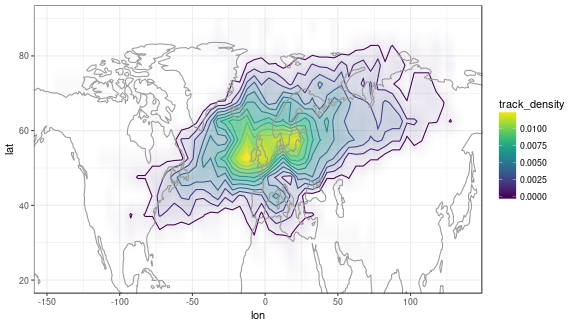
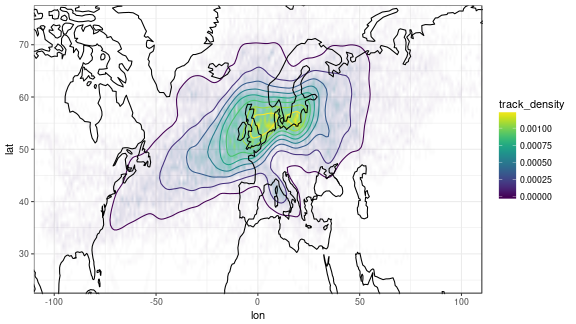
updated readme

diff --git a/README.md b/README.md
@@ -32,11 +32,11 @@ writeLines(readLines(stormsfile, n=8))
 ## 0
 ## PER_INFO 1    186.00000
 ## 0 0
-## TRACK_NUM      164 ADD_FLD    4  12 &1111
-## TRACK_ID  62 START_TIME 1979100115
+## TRACK_NUM      1184 ADD_FLD    6  16 &111110
+## TRACK_ID  127 START_TIME 1979100312
 ## POINT_NUM  30
-## 1979100115 340.307587 49.238014 2.256818e+00 & 1.000000e+25 & 1.000000e+25 & 1.004745e+03 & 3.452344e+02 & 5.157880e+01 & 2.585588e+01 & 3.431250e+02 & 5.157881e+01 & 2.522785e+00 & 3.445312e+02 & 5.298231e+01 & -9.085817e-01 & 
-## 1979100118 341.067871 48.938240 2.178028e+00 & 1.000000e+25 & 1.000000e+25 & 1.006301e+03 & 3.466406e+02 & 5.228060e+01 & 2.429727e+01 & 3.445312e+02 & 5.298231e+01 & 1.639683e+00 & 3.452344e+02 & 5.298231e+01 & -6.051655e-01 &
+## 1979100312 353.681549 47.666767 2.346363e+00 & 3.533451e+02 & 4.970964e+01 & 1.007385e+03 & 7.031000e-01 & 4.526300e+01 & 1.215763e+01 & 3.550781e+02 & 4.666655e+01 & 1.042684e+00 & 3.529688e+02 & 5.087706e+01 & -7.438669e-01 & 7.031000e-01 & 4.526300e+01 & 1.215763e+01 & 1.157416e-01 & 
+## 1979100315 354.703278 48.574390 2.604560e+00 & 3.537430e+02 & 5.029348e+01 & 1.006312e+03 & 1.406200e+00 & 4.526300e+01 & 1.209936e+01 & 3.557812e+02 & 4.807005e+01 & 1.145681e+00 & 3.529688e+02 & 5.087706e+01 & -9.429607e-01 & 1.406200e+00 & 4.526300e+01 & 1.209936e+01 & 1.584442e-01 &
 ```
 
 The function `read_tracks` parses TRACK output into a `data.table`. Variable names can be passed as a function argument:
@@ -48,27 +48,34 @@ head(trx)
 ```
 
 ```
-##               ID       date lon_vor850 lat_vor850 var_vor850 lon_mslp
-## 1: 1979100115_62 1979100115  -19.69241   49.23801   2.256818       NA
-## 2: 1979100115_62 1979100118  -18.93213   48.93824   2.178028       NA
-## 3: 1979100115_62 1979100121  -18.19537   49.45507   2.281268       NA
-## 4: 1979100115_62 1979100200  -18.89911   49.64317   1.979960       NA
-## 5: 1979100115_62 1979100203  -18.51144   48.41359   1.995012       NA
-## 6: 1979100115_62 1979100206  -15.55347   47.63854   2.551114 -13.3079
+##                ID       date lon_vor850 lat_vor850 var_vor850 lon_mslp
+## 1: 1979100312_127 1979100312  -6.318451   47.66677   2.346363  -6.6549
+## 2: 1979100312_127 1979100315  -5.296722   48.57439   2.604560  -6.2570
+## 3: 1979100312_127 1979100318  -4.857239   49.65100   2.899219  -5.9150
+## 4: 1979100312_127 1979100321  -4.318573   50.21724   3.184141  -5.9635
+## 5: 1979100312_127 1979100400  -4.361511   51.63484   3.541903  -5.4617
+## 6: 1979100312_127 1979100403  -3.812408   52.54179   3.929281  -4.9509
 ##    lat_mslp var_mslp lon_speed lat_speed var_speed lon_precip lat_precip
-## 1:       NA 1004.745  -14.7656   51.5788  25.85588   -16.8750   51.57881
-## 2:       NA 1006.301  -13.3594   52.2806  24.29727   -15.4688   52.98231
-## 3:       NA 1006.618  -12.6562   54.3858  27.24611   -14.7656   53.68406
-## 4:       NA 1006.978  -11.9531   53.6841  24.75781   -13.3594   52.98231
-## 5:       NA 1007.700  -11.9531   52.2806  22.95614   -14.0625   51.57881
-## 6: 51.20902 1005.944  -11.2500   52.2806  20.60277   -11.9531   49.47356
-##    var_precip lon_omega lat_omega  var_omega
-## 1:  2.5227850  -15.4688  52.98231 -0.9085817
-## 2:  1.6396830  -14.7656  52.98231 -0.6051655
-## 3:  1.4330540  -14.0625  50.17531 -0.7044878
-## 4:  0.9765621  -13.3594  50.87706 -0.6734438
-## 5:  3.1477600  -13.3594  50.17531 -0.6644258
-## 6:  1.2753800  -12.6562  51.57881 -0.6119308
+## 1: 49.70964 1007.385    0.7031   45.2630  12.15763    -4.9219   46.66655
+## 2: 50.29348 1006.312    1.4062   45.2630  12.09936    -4.2188   48.07005
+## 3: 50.62696 1004.724    1.4062   45.9648  13.09993    -6.3281   51.57881
+## 4: 51.28530 1003.757    2.8125   46.6665  15.49924    -6.3281   52.98231
+## 5: 51.55520 1001.974   -7.7344   51.5788  14.98526    -5.6250   52.98231
+## 6: 52.19911 1000.530    0.7031   57.1928  15.12454    -7.0312   52.28056
+##    var_precip lon_omega lat_omega  var_omega  lon_V6  lat_V6   var_V6
+## 1:   1.042684   -7.0312  50.87706 -0.7438669  0.7031 45.2630 12.15763
+## 2:   1.145681   -7.0312  50.87706 -0.9429607  1.4062 45.2630 12.09936
+## 3:   1.333872   -7.0312  51.57881 -1.0721690  1.4062 45.9648 13.09993
+## 4:   1.780192   -7.0312  52.28056 -1.3256610  2.8125 46.6665 15.49924
+## 5:   2.081553   -7.0312  51.57881 -1.0744200 -7.7344 52.2806 14.71069
+## 6:   2.893448   -6.3281  55.08756 -1.0830790 -7.0312 52.2806 15.01214
+##       var_V7
+## 1: 0.1157416
+## 2: 0.1584442
+## 3: 0.1752217
+## 4: 0.2139297
+## 5: 0.2372818
+## 6: 0.4409288
 ```
 
 
@@ -77,25 +84,25 @@ The function `track_density` splits the world up into grid boxes of width and he
 
 ```r
 # calculate track density on a 5x5 degree grid
-td = track_density(trx, bw=5)
+td = track_density(trx, bw=1)
 head(td)
 ```
 
 ```
 ##                      bin feature_count track_count feature_density
-## 1: (-180,-175],(-90,-85]             0           0               0
-## 2: (-175,-170],(-90,-85]             0           0               0
-## 3: (-170,-165],(-90,-85]             0           0               0
-## 4: (-165,-160],(-90,-85]             0           0               0
-## 5: (-160,-155],(-90,-85]             0           0               0
-## 6: (-155,-150],(-90,-85]             0           0               0
+## 1: (-180,-179],(-90,-89]             0           0               0
+## 2: (-179,-178],(-90,-89]             0           0               0
+## 3: (-178,-177],(-90,-89]             0           0               0
+## 4: (-177,-176],(-90,-89]             0           0               0
+## 5: (-176,-175],(-90,-89]             0           0               0
+## 6: (-175,-174],(-90,-89]             0           0               0
 ##    track_density lon_min lon_max lat_min lat_max    lon   lat
-## 1:             0    -180    -175     -90     -85 -177.5 -87.5
-## 2:             0    -175    -170     -90     -85 -172.5 -87.5
-## 3:             0    -170    -165     -90     -85 -167.5 -87.5
-## 4:             0    -165    -160     -90     -85 -162.5 -87.5
-## 5:             0    -160    -155     -90     -85 -157.5 -87.5
-## 6:             0    -155    -150     -90     -85 -152.5 -87.5
+## 1:             0    -180    -179     -90     -89 -179.5 -89.5
+## 2:             0    -179    -178     -90     -89 -178.5 -89.5
+## 3:             0    -178    -177     -90     -89 -177.5 -89.5
+## 4:             0    -177    -176     -90     -89 -176.5 -89.5
+## 5:             0    -176    -175     -90     -89 -175.5 -89.5
+## 6:             0    -175    -174     -90     -89 -174.5 -89.5
 ```
 
 The object `trx` is of class `stormtracks`, and the object `td` is of class `track_density`. Both classes have S3 plotting methods:
@@ -108,19 +115,14 @@ plot(trx, var='vor850')
 ![plot of chunk plot-trx](figure/readme/plot-trx-1.png)
 
 
+
 ```r
-plot(td, 'track_density')
+plot(td, what='track_density', contour_smooth=2) + 
+coord_cartesian(xlim=c(-100,100), ylim=c(25,75))
 ```
 
 ![plot of chunk plot-td](figure/readme/plot-td-1.png)
 
-
-
-```r
-plot(td, 'feature_count')
-```
-
-![plot of chunk plot-fc](figure/readme/plot-fc-1.png)
 
 
 
